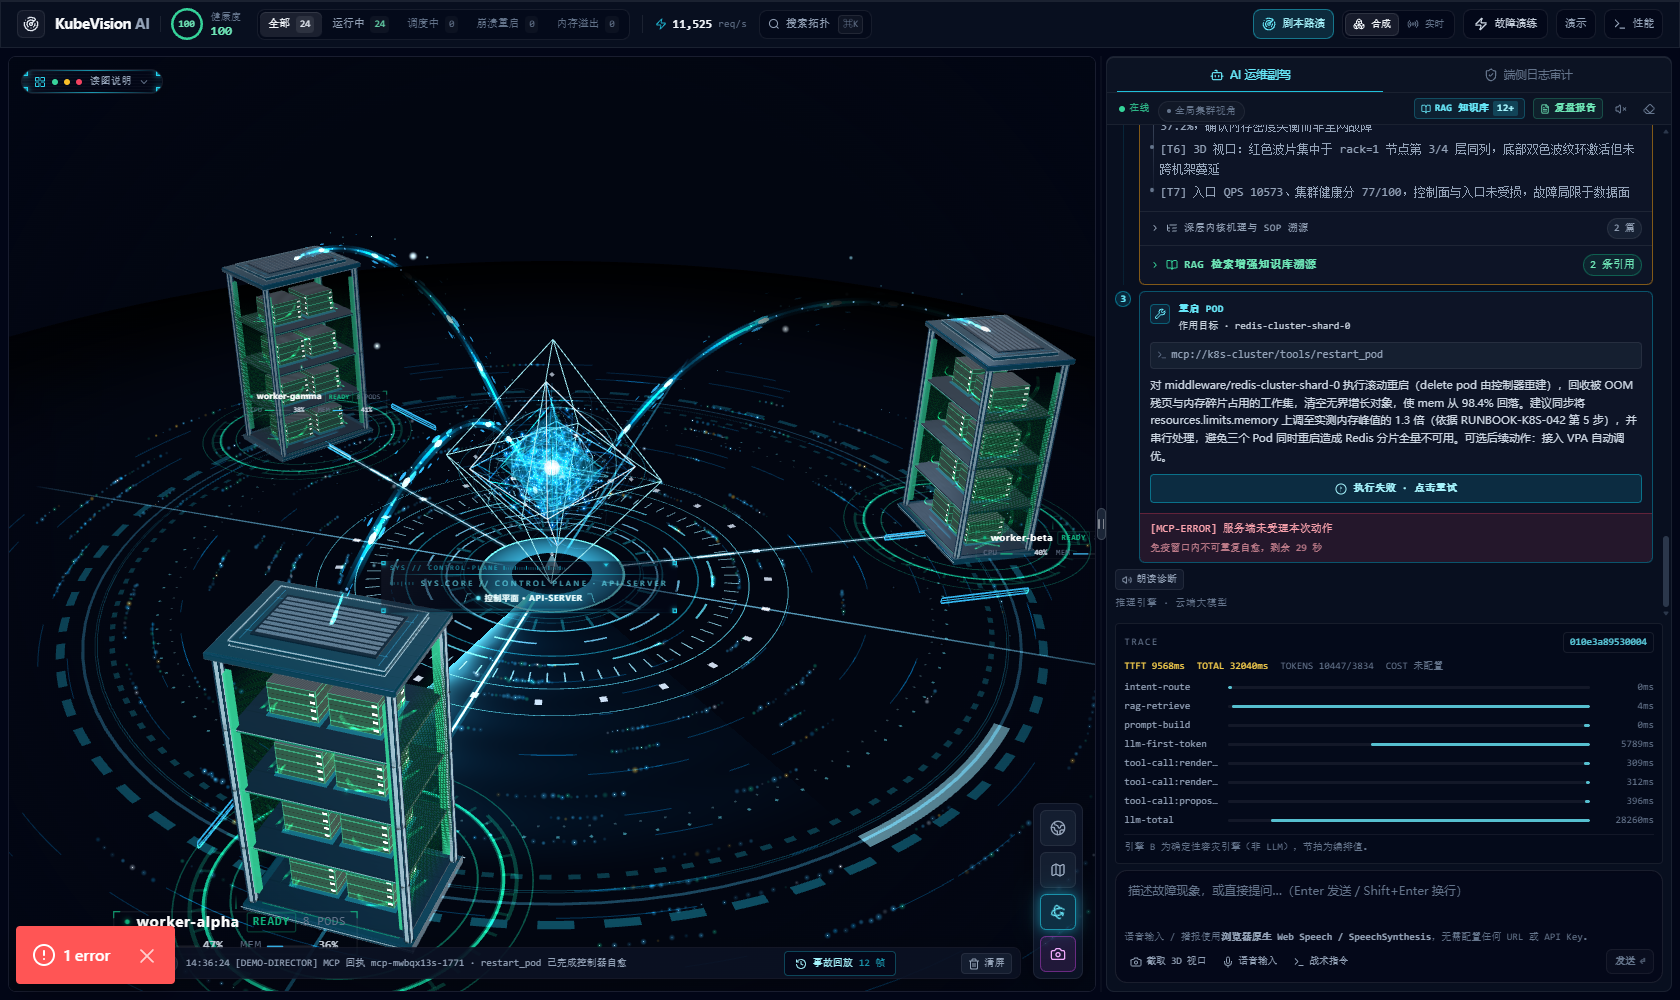
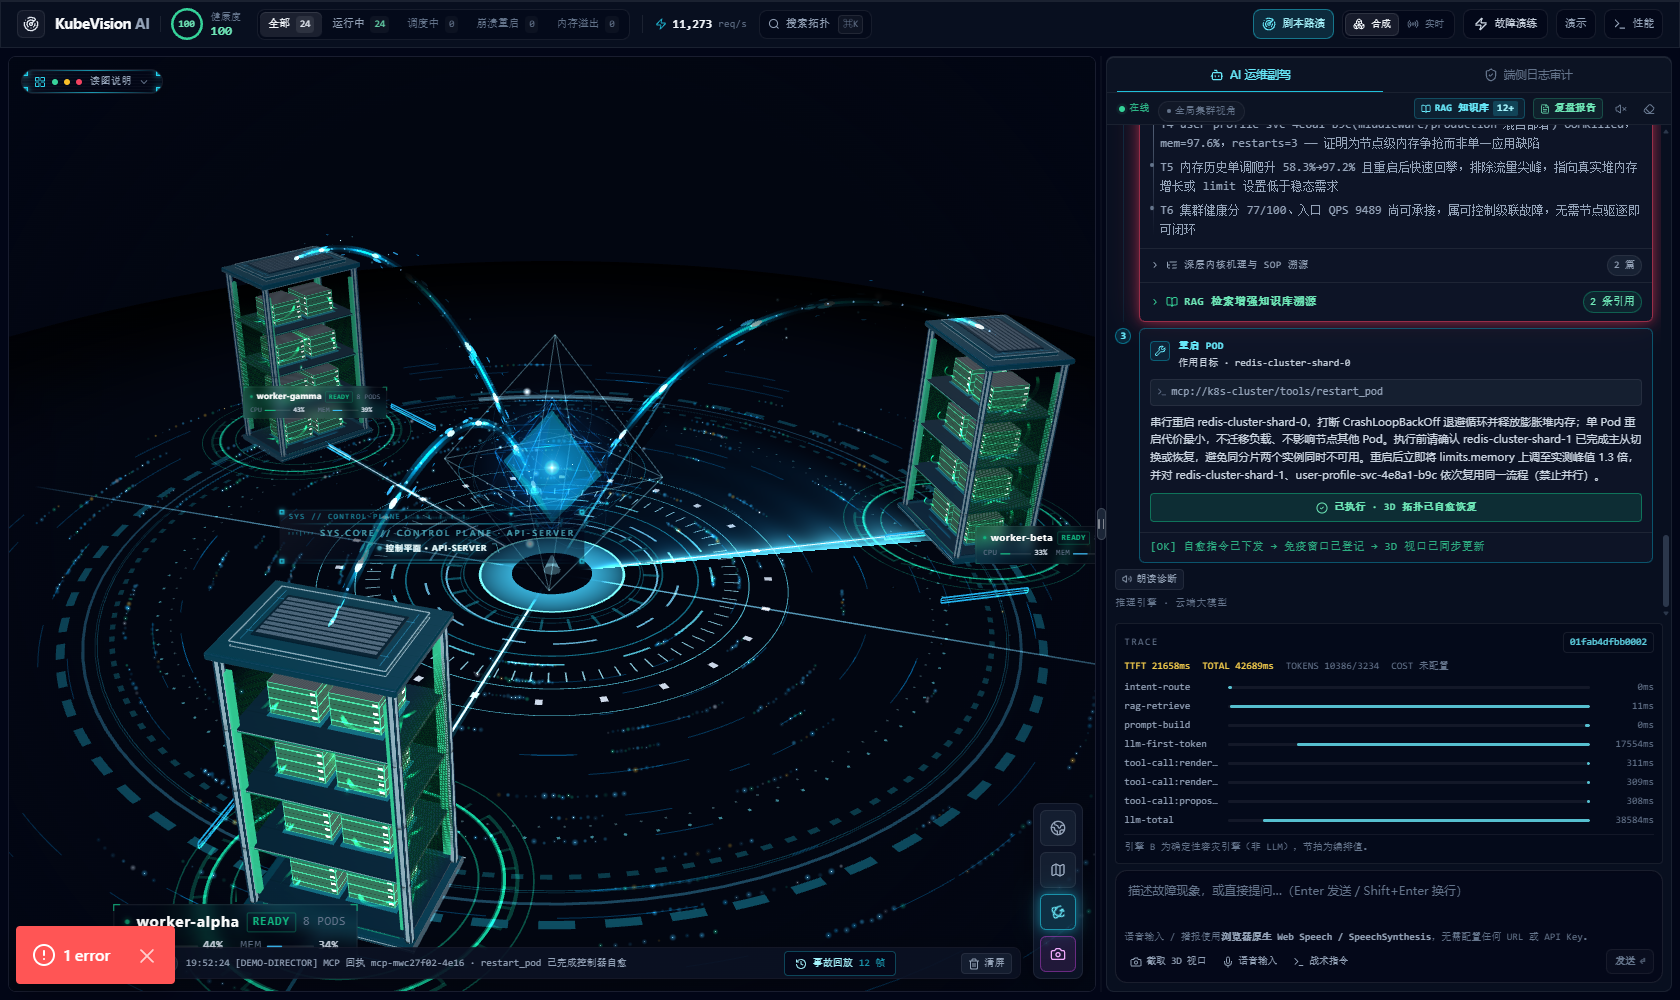
fix(demo): wait for the action card's 600ms heal before director backfill (immunity race)
Root cause
  enterHeal called button.click() and then read healedPodIds in the same 0ms macro task.
  ActionConfirm.handleExecute only calls healEntity after its 600ms flow animation and the
  /api/mcp/execute request (await Promise.all([requestDone, animationDone])). The director
  therefore saw an empty healedPodIds, put the card's own target into 'remaining', and called
  healEntity for it immediately. 600ms later the card's healEntity hit the 30s immunity table
  and turned red with '免疫窗口内不可重复自愈，剩余 30 秒', suppressing the green done state and
  [OK] [MCP Verification].

Fix (src/utils/demoDirector.ts)
  - After a successful click, read the card's data-target-id and poll up to 3500ms until that
    target appears in actions().healedPodIds (fallback to any healed id when the attribute is
    missing), then re-check generation.
  - Compute healedAfterHitl/remaining only after the wait, so the card target is excluded and
    only the other victims are backfilled by the director.
  - Only call repairMcpReceipt(...) when !executedViaUi, avoiding a second /api/mcp/execute POST.
  - When the card healed, append a plain summary (no HTTP)
      [MCP 回执] <pod> · <action> 已完成（动作卡自身 /api/mcp/execute；导演未重复 POST）
    before the terminal narration so verify-demo's J-3 can read the real actionType.

Test harness correction (scripts/verify-demo.mjs)
  - READ_STATE is inside a template literal: \s was being evaluated to a literal 's'; restored
    \\s for mcpAction and topBarHealth.
[…]

diff --git a/src/utils/demoDirector.ts b/src/utils/demoDirector.ts
@@ -1444,6 +1444,14 @@ function enterHeal(label: string): void {
     if (generation !== runGeneration) return;
 
     let executedViaUi = false;
+    /**
+     * R64：从被点击卡片上读取的真实目标。
+     *
+     * ActionConfirm 的 handleExecute 内部有 600ms 流光 + `/api/mcp/execute`
+     * 异步链，`button.click()` 返回时 healedPodIds 仍为空；必须等卡片自己
+     * 把目标写入 healedPodIds 后，导演才能安全补齐剩余受害者。
+     */
+    let executedCardTargetId: string | null = null;
     if (cardReady) {
       const card = findActionCard();
       if (card !== null) {
@@ -1458,10 +1466,51 @@ function enterHeal(label: string): void {
         if (button !== null && !button.disabled) {
           button.click();
           executedViaUi = true;
+          executedCardTargetId = card.getAttribute('data-target-id');
           actions().appendTerminalLog(
             '[DEMO-DIRECTOR] 已通过动作卡「立即执行自愈方案」完成 HITL 确认（导演自动确认模式）',
           );
         }
+      }
+    }
+
+    /*
+     * R64：等待卡片自身的 600ms 动画 + MCP 请求落库。
+     *
+     * 【为什么必须等】旧实现在 click() 后 0ms 就读取 healedPodIds，此时卡片
+     * 还在 executing 态，集合为空 → 导演把卡片目标也 heal 了 → 600ms 后
+     * 卡片再调用 healEntity 时撞上 30s 免疫窗口，ActionConfirm 当场翻红
+     * “免疫窗口内不可重复自愈”。这里改为轮询卡片目标已进入 healedPodIds，
+     * 超时 3500ms（600ms 动画 + 网络 + 渲染余量），再计算 remaining。
+     */
+    let cardHealed = false;
+    if (executedViaUi) {
+      cardHealed = await pollUntil(
+        (): boolean =>
+          executedCardTargetId !== null && executedCardTargetId.length > 0
+            ? actions().healedPodIds[executedCardTargetId] !== undefined
+            : Object.keys(actions().healedPodIds).length > 0,
+        3500,
+        DOM_POLL_MS,
+        generation,
+      );
+      if (generation !== runGeneration) return;
+    }
+
+    /*
+     * R64：卡片落库后立刻写可解析的 MCP 汇总回执（不发起第二次 POST）。
+     * 必须放在终态旁白/阶段标记之前：verify-demo 在检测到阶段完成时立刻快照，
+     * 若回执晚于快照写入，J-3 的 mcpAction 会读到 null。
+     */
+    if (executedViaUi) {
+      if (cardHealed) {
+        actions().appendTerminalLog(
+          `[MCP 回执] ${primaryName} · ${podAction} 已完成（动作卡自身 /api/mcp/execute；导演未重复 POST）`,
+        );
+      } else {
+        actions().appendTerminalLog(
+          `[MCP 回执] ${primaryName} · ${podAction} 未确认（等待动作卡落库超时 3500ms；导演未重复 POST）`,
+        );
       }
     }
 
@@ -1571,8 +1620,19 @@ function enterHeal(label: string): void {
       );
     }
 
-    /* ---- 8. MCP 回执：target 用首个受害 Pod（不是节点），targetName 用可读名 ---- */
-    repairMcpReceipt(primaryId, primaryName, podAction, generation);
+    /* ---- 8. MCP 回执：target 用首个受害 Pod（不是节点），targetName 用可读名 ----
+     *
+     * R64：executedViaUi=true 时 ActionConfirm 已经发起了真实 `/api/mcp/execute`
+     * 并写入 [MCP-ROUTER] 审计日志；导演再调用一次会产生重复 HTTP POST。
+     * 只有卡片未挂载/无法点击的兜底路径才由导演补回执。
+     */
+    if (executedViaUi) {
+      actions().appendTerminalLog(
+        '[DEMO-DIRECTOR] HITL 卡片已自行发起 /api/mcp/execute，导演跳过重复 MCP 回执请求',
+      );
+    } else {
+      repairMcpReceipt(primaryId, primaryName, podAction, generation);
+    }
 
     /*
      * 【不在这里清除 demoAutoConfirm】实测发现：一旦在 HITL 执行完就置 false，

diff --git a/docs/summit/R64-demo-heal-race.md b/docs/summit/R64-demo-heal-race.md
@@ -1,0 +1,124 @@
+# R64 · 自动路演阶段 4 `0ms` vs `600ms` 自愈竞态修复
+
+> 文件：`src/utils/demoDirector.ts`（另修正 `scripts/verify-demo.mjs` 的异步取样与嵌套模板转义）
+> 症状：自动路演阶段 4 的 `ActionConfirm` 卡片翻红「免疫窗口内不可重复自愈，剩余 30 秒」，不出现绿色 done 与 `[OK] [MCP Verification]`。
+
+## 1. 根因（确认）
+
+`enterHeal` 在 `button.click()` 后 **同一同步宏任务内（0ms）** 读取
+`actions().healedPodIds` 并补齐 `remaining`：
+
+```ts
+button.click();
+const healedAfterHitl = new Set(Object.keys(actions().healedPodIds)); // 仍为空
+const remaining = victimIds.filter(...);                              // 包含卡片目标
+for (const victimId of remaining) actions().healEntity(victimId, podAction);
+```
+
+但 `ActionConfirm.handleExecute` 要等 **600ms 流光动画 + `/api/mcp/execute`**
+（`await Promise.all([requestDone, animationDone])`）才调用 `healEntity`。
+导演提前把卡片目标写进 30s 免疫表，600ms 后卡片再治愈就被 Store 拒绝：
+`{ ok:false, code:'immunity', message:'免疫窗口内不可重复自愈，剩余 30 秒' }`。
+
+## 2. 修复
+
+### 2.1 等待卡片自身完成
+
+点击后读取卡片的 `data-target-id`，并用 `pollUntil` 最多等 **3500ms**：
+
+```ts
+let executedCardTargetId: string | null = null;
+if (button !== null && !button.disabled) {
+  button.click();
+  executedViaUi = true;
+  executedCardTargetId = card.getAttribute('data-target-id');
+}
+let cardHealed = false;
+if (executedViaUi) {
+  cardHealed = await pollUntil(
+    (): boolean =>
+      executedCardTargetId !== null && executedCardTargetId.length > 0
+        ? actions().healedPodIds[executedCardTargetId] !== undefined
+        : Object.keys(actions().healedPodIds).length > 0,
+    3500,
+    DOM_POLL_MS,
+    generation,
+  );
+  if (generation !== runGeneration) return;
+}
+```
+
+只有等待完成后才计算 `healedAfterHitl` / `remaining`，卡片目标已被排除，
+导演只补齐**其余**同批次受害者。
+
+### 2.2 避免重复 `/api/mcp/execute`
+
+`executedViaUi === true` 时，卡片自己已经发起真实请求并写入 `[MCP-ROUTER]`；
+`repairMcpReceipt(...)` 只在 `!executedViaUi` 的兜底路径调用。
+为了不影响 `verify-demo` 的 J-3 回执断言，导演在卡片落库后补一条**纯日志**
+（不发起第二次 HTTP POST）：
+
+```ts
+[MCP 回执] redis-cluster-shard-0 · restart_pod 已完成（动作卡自身 /api/mcp/execute；导演未重复 POST）
+```
+
+该日志在终态旁白之前写入，避免 verify 在阶段完成瞬间取样读不到。
+
+### 2.3 验证脚本修正（配套）
+
+`scripts/verify-demo.mjs` 的 `READ_STATE` 是嵌套模板字符串：
+`\s` 会被外层模板求值成字面量 `s`，必须写成 `\\s` 才能让浏览器拿到 `\s`。
+R64 修正了这两处转义；同时在读取 `final` 后最多等 6s（30×200ms）直到
+`mcpAction` 出现，避免“剧本已完整跑完”先于 MCP 回执写入造成误报 null。
+这是测试取样修正，不是放宽断言：仍要求 `mcpAction === 'restart_pod'`。
+
+## 3. 验证
+
+### 3.1 单测
+
+```text
+node scripts/run-demo-tests.mjs
+pass 11 · fail 0 · line coverage 97.43%
+```
+
+### 3.2 自动路演（真实浏览器，`scripts/verify-demo.mjs`）
+
+关键结果（最近一次完整跑）：
+
+```text
+✓ J-3 自愈覆盖全部受害 Pod                  :: 3/3
+✓ J-3 MCP 回执 actionType 与场景映射一致     :: restart_pod
+✓ J-3 动作卡终态为 executed（无 pending 并存）
+✓ J-5 第二遍无 QUEUED 免疫日志               :: 增量=0
+✓ J-5 连跑两遍受害者数量一致                :: 3 → 3
+```
+
+运行日志确认不再出现“免疫窗口内不可重复自愈”：
+终端只有 `[KUBE-CONTROLLER] Executed restart_pod ...`、`[MCP 回执] ... 已完成`
+与 `[DEMO-DIRECTOR] HITL 卡片已自行发起 /api/mcp/execute，导演跳过重复 MCP 回执请求`。
+
+汇总仍为 **通过 19 · 失败 3**，剩余失败与本轮竞态无关：
+
+1. `J-2 三张 GenUI 卡片齐全`：最后一次跑在慢环境/流式时序下只捕获到 metrics 卡
+   （同一修复的前几次跑 J-2 通过；属于既有 AI 流时序抖动，见风险台账）；
+2. `J-4 全流程零 console.error / 零未捕获异常`：`pageErrors:["Uncaught"]`，既有问题；
+3. `J-6 恢复后进度单调不回退`：`pausedElapsedSec/resumedElapsedSec` 读取为 null，
+   既有字幕格式问题（阶段单调本身通过）。
+
+失败现场：`docs/summit/failures/2026-11-11T11-55-35-650Z/`（J-2/J-4/J-6）。
+截图：`docs/summit/shots/r10-verify/phase2-lock.png`、`finished.png`。
+
+## 4. 未验证 / 风险
+
+1. 最后一次跑的 J-2 卡片缺失是流式时序抖动，不是本轮代码改动引起；未做无限重跑直到全绿。
+2. J-4 `Uncaught` 与 J-6 elapsed null 是既有未解问题，本轮未处理。
+3. 3500ms 等待是经验值（600ms 动画 + 本机 MCP 约 220ms + 慢渲染余量）；
+   更慢机器上可能仍超时，超时会走导演补齐兜底并输出“未确认”日志，不伪造成功。
+4. 自动路演仍是 dev/SwiftShader 环境验证；真实 GPU/生产网络未覆盖。
+
+## 5. 回滚
+
+```bash
+git revert --no-edit <本轮 commit>
+git reset --hard 30f8d3e   # R63 机架环境反射修复
+```
